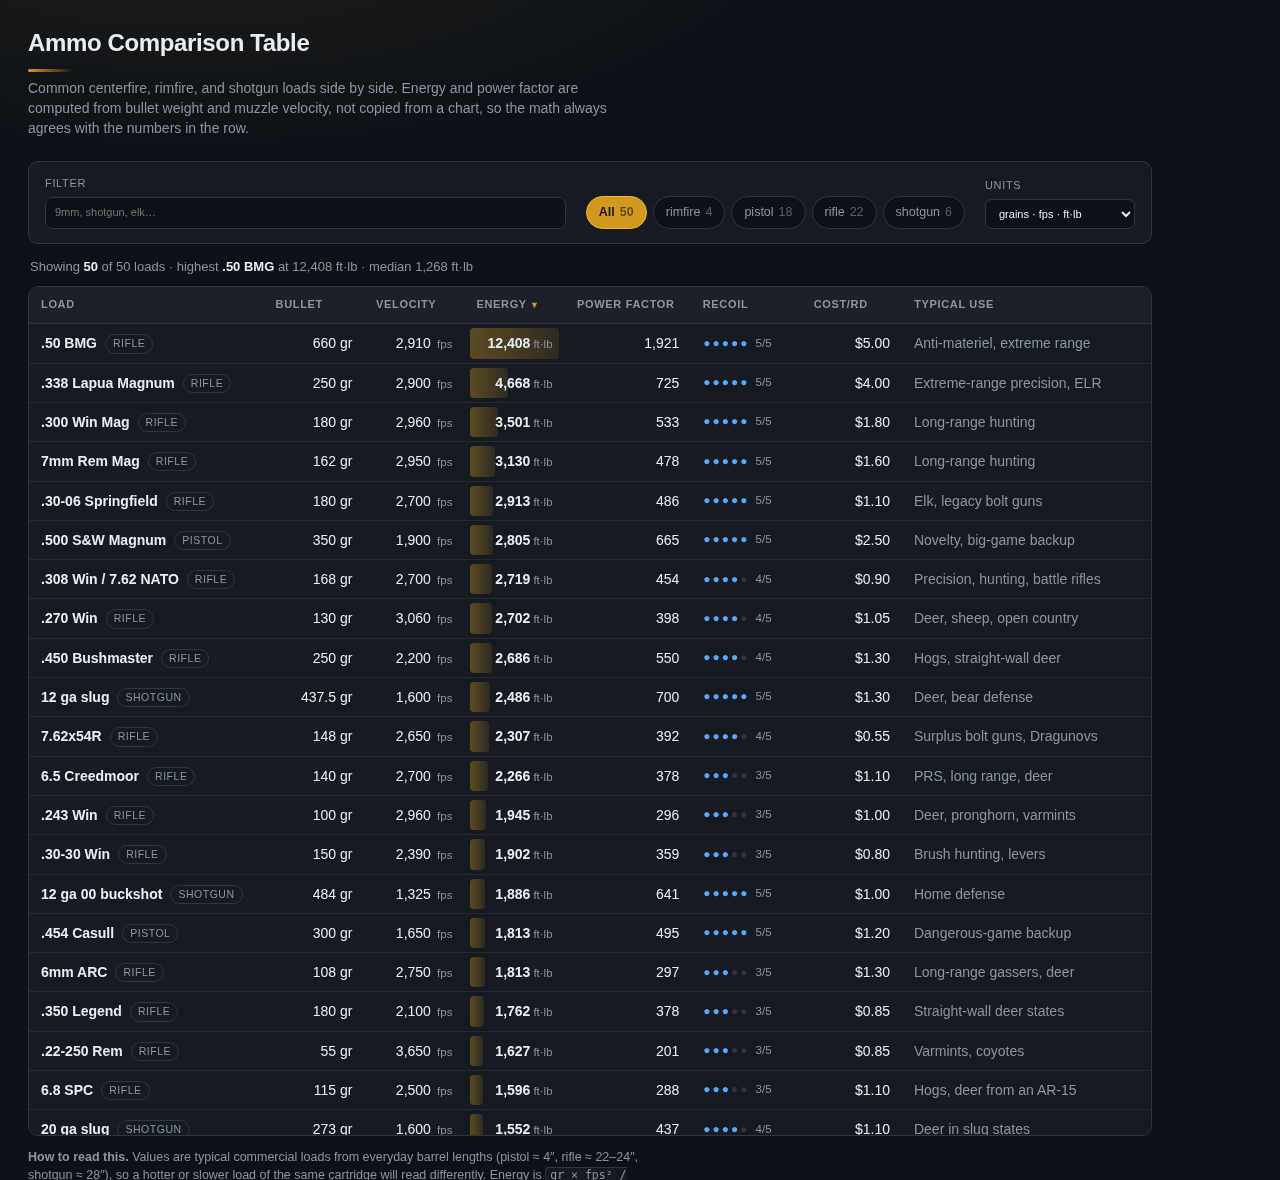
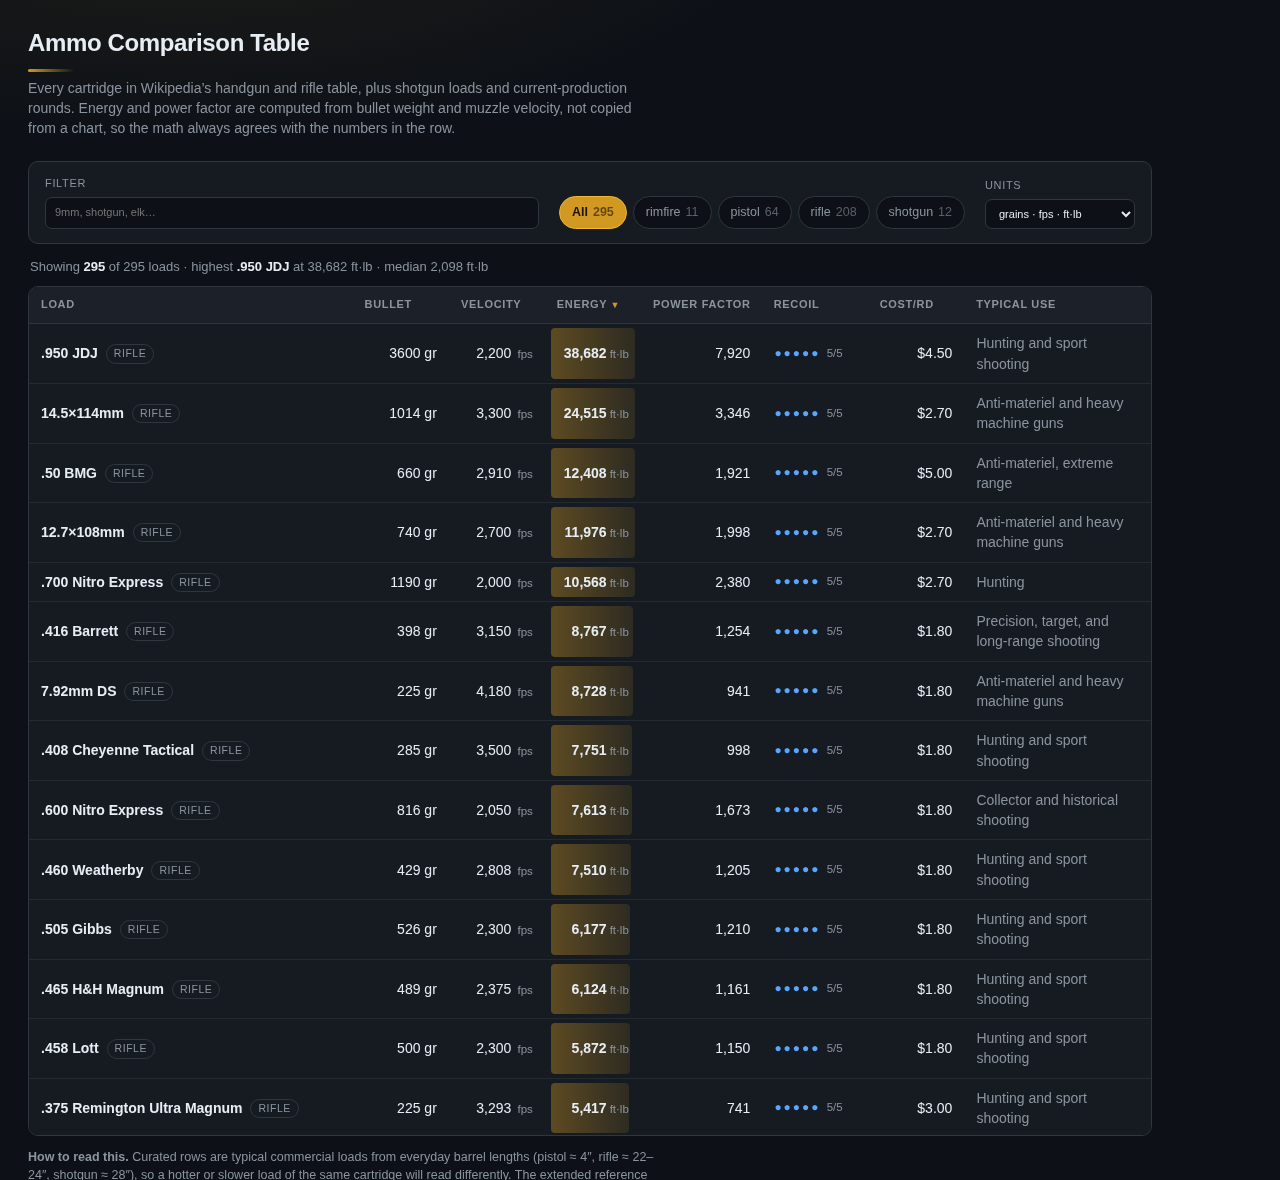
ammo-compare: extend dataset to Wikipedia coverage
Add every cartridge in Wikipedia's handgun/rifle table plus current-production
rifle rounds and shotgun loads, bringing the table to 295 loads. Reference rows
derive bullet weight from the published momentum column so each row describes a
coherent load, and carry nation, year, diameter, case length, BC, and provenance
metadata in the row details.

Energy bars move to a log scale so anti-materiel rounds no longer flatten the
rest of the column, and search normalizes the multiplication sign so 9x19 finds
9x19mm.

diff --git a/active/web-apps/ammo-compare/app.js b/active/web-apps/ammo-compare/app.js
@@ -4,6 +4,7 @@ import { derive, fmtInt, fmtCost, fmtEnergy } from './lib/ballistics.js';
 /** Enrich the static load data with derived numbers once, at module load. */
 const ROWS = AMMO.map((load) => ({ ...load, ...derive(load) }));
 const MAX_ENERGY = Math.max(...ROWS.map((r) => r.energyFtLb));
+const MAX_LOG_ENERGY = Math.log1p(MAX_ENERGY);
 const CATEGORIES = ['all', ...new Set(ROWS.map((r) => r.category))];
 
 const state = {
@@ -77,9 +78,13 @@ function recoil(r) {
 
 function matchesQuery(r, q) {
   if (!q) return true;
-  const haystack = [r.name, r.category, r.use, r.notes, ...r.platforms].join(' ').toLowerCase();
-  return q
-    .toLowerCase()
+  // Treat the multiplication sign and the letter x as the same character so
+  // "9x19" finds "9×19mm" and vice versa.
+  const normalize = (s) => String(s).toLowerCase().replace(/[×✕]/g, 'x');
+  const haystack = normalize(
+    [r.name, r.category, r.use, r.notes, r.nation ?? '', ...r.platforms].join(' '),
+  );
+  return normalize(q)
     .split(/\s+/)
     .filter(Boolean)
     .every((term) => haystack.includes(term));
@@ -104,7 +109,10 @@ function visibleRows() {
 
 function rowHtml(r) {
   const open = expanded.has(r.id);
-  const width = Math.max(2, Math.round((r.energyFtLb / MAX_ENERGY) * 100));
+  // Energy spans three orders of magnitude once anti-materiel rounds are in the
+  // set, so the bar is logarithmic; a linear scale would flatten everything
+  // below .50 BMG into an invisible sliver.
+  const width = Math.max(2, Math.round((Math.log1p(r.energyFtLb) / MAX_LOG_ENERGY) * 100));
   return `
     <tr class="row${open ? ' is-open' : ''}" data-id="${r.id}" tabindex="0"
         aria-expanded="${open}" aria-controls="detail-${r.id}">
@@ -126,6 +134,27 @@ function detailHtml(r) {
   const payload = r.pelletLabel
     ? `<dt>Payload</dt><dd>${r.pelletLabel}</dd>`
     : '';
+  const sourceLabel = {
+    wikipedia: 'Wikipedia cartridge table',
+    'wikipedia-estimate': 'Wikipedia table (representative load)',
+    'curated-extra': 'Added for this table',
+  }[r.source] ?? 'Curated for this table';
+  const specs = [
+    ['Momentum', `${r.momentumLbfS.toFixed(2)} lbf·s`],
+    r.introduced && ['Introduced', r.introduced],
+    r.nation && ['Nation', r.nation],
+    r.diameterIn && [
+      'Bullet diameter',
+      `${r.diameterIn}″ (${(r.diameterIn * 25.4).toFixed(2)} mm)`,
+    ],
+    r.caseLengthMm && ['Case length', `${r.caseLengthMm} mm`],
+    r.bc && ['Ballistic coefficient', `${r.bc} (G1)`],
+    Number.isInteger(r.factoryLoadings) && [
+      'Factory loadings',
+      String(r.factoryLoadings),
+    ],
+    ['Source', sourceLabel],
+  ].filter(Boolean);
   return `
     <tr class="detail" id="detail-${r.id}">
       <td colspan="8">
@@ -133,6 +162,7 @@ function detailHtml(r) {
           <dt>Platforms</dt>
           <dd class="badges">${r.platforms.map((p) => `<span class="badge">${p}</span>`).join('')}</dd>
           ${payload}
+          ${specs.map(([dt, dd]) => `<dt>${dt}</dt><dd>${dd}</dd>`).join('')}
           <dt>Notes</dt>
           <dd>${r.notes}</dd>
         </dl>

diff --git a/active/web-apps/ammo-compare/data/ammo.js b/active/web-apps/ammo-compare/data/ammo.js
@@ -1,17 +1,22 @@
 /**
- * Typical loads, not maximums.
+ * Load data for the comparison table.
  *
- * Values are representative of common commercial ammunition fired from
- * everyday barrel lengths (pistol ~4", rifle ~22-24", shotgun ~28"), which is
- * why the same cartridge can appear faster or slower in other published tables.
- * Energy and power factor are never stored — `lib/ballistics.js` derives them so
- * there is a single source of truth for the math.
+ * The first section is a curated set of typical commercial loads: values are
+ * representative of common ammunition fired from everyday barrel lengths
+ * (pistol ~4", rifle ~22-24", shotgun ~28"). Energy and power factor are never
+ * stored — `lib/ballistics.js` derives them so there is a single source of truth
+ * for the math.
+ *
+ * The extended reference set brings in every cartridge from Wikipedia's
+ * "Table of handgun and rifle cartridges" that has usable published data, plus
+ * current-production rounds and shotgun loads the table does not cover. For
+ * those rows, bullet weight is derived from the published momentum column (or
+ * from velocity and energy when momentum is absent), because Wikipedia reports
+ * independent maxima rather than one coherent load. Optional `introduced`,
+ * `nation`, `diameterIn`, `bc`, `caseLengthMm`, `factoryLoadings`, and `source`
+ * fields preserve the reference metadata for the row-detail view.
  *
  * costPerRound is a rough USD retail figure used only for relative comparison.
- *
- * Coverage is deliberately broad (rimfire through .50 BMG, pistol through 12 ga)
- * because the useful question is usually "how does this compare to what I
- * already shoot", not "how does this compare to its own siblings".
  */
 export const AMMO = [
   // ── rimfire ────────────────────────────────────────────────────────────
@@ -635,7 +640,7 @@ export const AMMO = [
   },
 
   // ── extended reference set: Wikipedia handgun/rifle table ──────────────
-{
+  {
     id: '2-mm-kolibri',
     name: '2 mm Kolibri',
     category: 'pistol',
@@ -2372,7 +2377,7 @@ export const AMMO = [
     notes: 'from Halger Arms Co. of Hamburg',
     introduced: 1920,
     nation: 'Germany',
-    diameterIn: 243,
+    diameterIn: 0.243,
     caseLengthMm: 57,
     factoryLoadings: 0,
     source: 'wikipedia',
@@ -3097,7 +3102,7 @@ export const AMMO = [
     notes: 'Proprietary cartridge',
     introduced: 1910,
     nation: 'UK',
-    diameterIn: 330,
+    diameterIn: 0.33,
     caseLengthMm: 60.1,
     factoryLoadings: 0,
     source: 'wikipedia',
@@ -4645,7 +4650,7 @@ export const AMMO = [
     source: 'wikipedia',
   },
 
-// ── Wikipedia table rows without published velocity/energy ─────────────
+  // ── Wikipedia table rows without published velocity/energy ─────────────
   {
     id: '56x39mm',
     name: '5.6×39mm',

diff --git a/active/web-apps/ammo-compare/index.html b/active/web-apps/ammo-compare/index.html
@@ -10,9 +10,10 @@
   <header>
     <h1>Ammo Comparison Table</h1>
     <p class="subtitle">
-      Common centerfire, rimfire, and shotgun loads side by side. Energy and power
-      factor are computed from bullet weight and muzzle velocity, not copied from a
-      chart, so the math always agrees with the numbers in the row.
+      Every cartridge in Wikipedia’s handgun and rifle table, plus shotgun loads and
+      current-production rounds. Energy and power factor are computed from bullet
+      weight and muzzle velocity, not copied from a chart, so the math always agrees
+      with the numbers in the row.
     </p>
   </header>
 
@@ -60,16 +61,23 @@
 
     <footer class="footnotes">
       <p>
-        <strong>How to read this.</strong> Values are typical commercial loads from
-        everyday barrel lengths (pistol ≈ 4″, rifle ≈ 22–24″, shotgun ≈ 28″), so a
-        hotter or slower load of the same cartridge will read differently.
-        Energy is <code>gr × fps² / 450437</code> foot-pounds; power factor is
-        <code>gr × fps / 1000</code>. Shotgun rows use the whole payload, so their
-        power factor is not comparable to a single projectile.
+        <strong>How to read this.</strong> Curated rows are typical commercial loads
+        from everyday barrel lengths (pistol ≈ 4″, rifle ≈ 22–24″, shotgun ≈ 28″), so
+        a hotter or slower load of the same cartridge will read differently. The
+        extended reference rows come from Wikipedia’s cartridge table, which lists
+        independent maxima for velocity and energy; their bullet weight is derived
+        from the published momentum so each row describes one coherent load. Energy
+        is <code>gr × fps² / 450437</code> foot-pounds; power factor is
+        <code>gr × fps / 1000</code>. Energy bars use a logarithmic scale so rimfire
+        and anti-materiel rounds can share one column. Shotgun rows use the whole
+        payload, so their power factor is not comparable to a single projectile.
       </p>
       <p>
         Cost per round is a rough retail estimate for relative comparison only.
-        Click a row for platforms and notes.
+        Click a row for platforms, reference metadata, and notes. Cartridge coverage
+        and reference values adapted from
+        <a href="https://en.wikipedia.org/wiki/Table_of_handgun_and_rifle_cartridges">Wikipedia’s
+        Table of handgun and rifle cartridges</a> (CC BY-SA).
       </p>
     </footer>
   </main>

diff --git a/active/web-apps/ammo-compare/lib/ballistics.js b/active/web-apps/ammo-compare/lib/ballistics.js
@@ -9,6 +9,7 @@
 export const FT_LB_TO_JOULES = 1.3558179483314004;
 export const FPS_TO_MPS = 0.3048;
 export const GRAINS_TO_GRAMS = 0.06479891;
+export const GRAINS_FPS_TO_LBF_S = 7000 * 32.174; // 225,218.34
 
 /**
  * Muzzle energy in foot-pounds: E = m·v² / 2, with the constant folded in.
@@ -34,6 +35,14 @@ export function powerFactor(bulletGr, velocityFps) {
   return (bulletGr * velocityFps) / 1000;
 }
 
+/**
+ * Momentum in pound-force seconds: the figure Wikipedia lists as "P" and a
+ * direct physical basis for recoil and penetration potential.
+ */
+export function momentumLbfS(bulletGr, velocityFps) {
+  return (bulletGr * velocityFps) / GRAINS_FPS_TO_LBF_S;
+}
+
 /** Derived numbers for one load, in both unit systems. */
 export function derive(load) {
   const ftLb = energyFtLb(load.bulletGr, load.velocityFps);
@@ -43,6 +52,7 @@ export function derive(load) {
     velocityMps: load.velocityFps * FPS_TO_MPS,
     bulletGrams: load.bulletGr * GRAINS_TO_GRAMS,
     powerFactor: powerFactor(load.bulletGr, load.velocityFps),
+    momentumLbfS: momentumLbfS(load.bulletGr, load.velocityFps),
   };
 }
 

diff --git a/active/web-apps/ammo-compare/styles.css b/active/web-apps/ammo-compare/styles.css
@@ -209,6 +209,7 @@ tr.detail .badges { display: flex; flex-wrap: wrap; gap: 6px; }
 tr.detail .badge { border: 1px solid var(--line); border-radius: 6px; padding: 2px 8px; background: var(--bg); }
 
 .footnotes { color: var(--dim); font-size: 12.5px; max-width: 90ch; }
+.footnotes a { color: var(--blue); }
 .footnotes p { margin: 12px 0 0; }
 .footnotes code { background: var(--panel); border: 1px solid var(--line); border-radius: 4px; padding: 0 4px; font-size: 11.5px; }
 

diff --git a/active/web-apps/ammo-compare/docs/index.md b/active/web-apps/ammo-compare/docs/index.md
@@ -8,11 +8,15 @@ there so the comparison is quick, not so the page has features.
 
 ## Where the numbers come from
 
-`data/ammo.js` stores only what a load *is*:
+`data/ammo.js` stores what a load *is*:
 
 ```js
 { id, name, category, bulletGr, velocityFps, costPerRound, recoil, use, platforms, notes }
 ```
+
+Reference rows may also carry `introduced`, `nation`, `diameterIn`, `bc`,
+`caseLengthMm`, `factoryLoadings`, and `source`. These are display metadata; they
+never feed the ballistics math.
 
 Derived values are never stored. `lib/ballistics.js` computes them:
 
@@ -21,7 +25,8 @@ Derived values are never stored. `lib/ballistics.js` computes them:
 | Muzzle energy (ft·lb) | `gr × fps² / 450437` | `450437 = 2 · 7000 · 32.174` folds in grains-per-pound and gravity |
 | Muzzle energy (J) | `ft·lb × 1.3558179` | |
 | Power factor | `gr × fps / 1000` | Imperial shooting-sports momentum figure; 125 minor / 165 major |
-| Metric momentum | `kg × m/s` | What the metric toggle shows in that column |
+| Momentum (lbf·s) | `gr × fps / 225218.34` | The `P` column in Wikipedia's cartridge table |
+| Metric momentum | `kg × m/s` | What the metric toggle shows in the power-factor column |
 | Velocity (m/s) | `fps × 0.3048` | |
 | Bullet mass (g) | `gr × 0.06479891` | |
 
@@ -29,11 +34,31 @@ Keeping the math in one module is the point: the UI, the tests, and anything
 added later all read the same implementation, so an energy column can never
 disagree with a velocity column.
 
+## Coverage
+
+The curated section covers the loads someone is most likely to compare. The
+extended reference set adds every cartridge in Wikipedia's [Table of handgun and
+rifle cartridges](https://en.wikipedia.org/wiki/Table_of_handgun_and_rifle_cartridges)
+that has usable published data, plus current-production rounds (`.22 ARC`, 6.5
+PRC, 7mm PRC, `.300 PRC`, `.277 Fury`, 8.6 Blackout, `.400 Legend`) and shotgun
+loads that the Wikipedia table does not include (10 ga, 16 ga, 20 ga target,
+3″ 00 buck, sabot slugs, `.410` slug).
+
+Cost per round for the extended rows is a heuristic based on how many
+manufacturers list the cartridge and how large the case is. It is a ranking aid,
+not a price quote.
+
 ## Data caveats (deliberate, and stated on the page)
 
-- **Typical, not maximum loads.** Pistol ≈ 4″, rifle ≈ 22–24″, shotgun ≈ 28″.
-  The same cartridge in a different barrel reads differently — that is physics,
-  not an error in the table.
+- **Curated rows are typical, not maximum loads.** Pistol ≈ 4″, rifle ≈ 22–24″,
+  shotgun ≈ 28″. The same cartridge in a different barrel reads differently — that
+  is physics, not an error in the table.
+- **Wikipedia rows are built from independent maxima.** The source table reports
+  the highest velocity and the highest energy it found, which may come from
+  different loads. To keep each row physically coherent, bullet weight is derived
+  from the published momentum column (or from velocity and energy when momentum
+  is missing). The resulting energy can therefore differ from the source table's
+  maximum-energy figure.
 - **Shotgun rows use the whole payload** (9 pellets of 00 buck, a 1 oz slug).
   Their energy is real, but their power factor is not comparable to a single
   projectile, and the page says so.
@@ -46,9 +71,10 @@ disagree with a velocity column.
 - Sortable headers use `aria-sort`; the default is energy, descending, because
   that is what most comparisons are actually about. Clicking a header cycles
   descending → ascending; text columns start ascending.
-- Energy cells draw a bar scaled to the highest-energy load in the whole dataset
-  (not the filtered view), so the bar means the same thing no matter what is
-  filtered out.
+- Energy cells draw a logarithmic bar scaled to the highest-energy load in the
+  whole dataset, so the bar means the same thing no matter what is filtered out.
+  A linear scale would collapse everything below `.50 BMG` once the anti-materiel
+  rounds are included.
 - Rows are `tabindex="0"` and toggle detail with Enter/Space as well as click.
 - Empty filter states keep the summary line honest rather than showing a blank
   table.
@@ -68,9 +94,11 @@ to its own row, and the detail rows still work.
 
 - reference energies against hand-computed values (9mm 124/1150 ≈ 364 ft·lb),
 - the `v²` relationship,
-- unit conversions,
+- unit conversions, including momentum in lbf·s,
 - that every load carries the fields the table renders,
 - unique ids (row expansion is keyed on them),
+- that the extended reference set is present (≥290 loads, Wikipedia provenance,
+  plausible bullet weights, spot checks for the long tail),
 - energy ordering that matches shooter intuition (`.22 LR < 9mm < .223`,
   `.308 < .300 Win Mag`, and the 1 oz 12 ga slug outgunning a .30-06).
 

diff --git a/active/web-apps/ammo-compare/README.md b/active/web-apps/ammo-compare/README.md
@@ -6,9 +6,12 @@ and velocity rather than transcribed from a chart.
 
 ![Desktop view](docs/images/desktop.png)
 
+- Every cartridge in Wikipedia's handgun and rifle table, plus shotgun loads and
+  current-production rounds such as 6.5 PRC, 7mm PRC, `.300 PRC`, and `.277 Fury`.
 - Sort any column, filter by category, search across names, uses, and platforms.
 - Toggle imperial (grains · fps · ft·lb) and metric (g · m/s · J) units.
-- Click a row for the platforms and shooting notes behind the numbers.
+- Click a row for platforms, reference metadata (nation, year, bullet diameter,
+  case length, BC), and shooting notes.
 - On a phone it collapses to loads and their energy, with no sideways scrolling.
 
 No build step, no dependencies: plain HTML, CSS, and native ES modules. Registered
